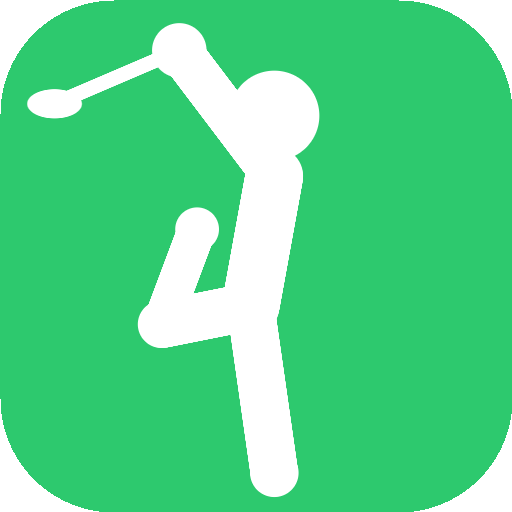
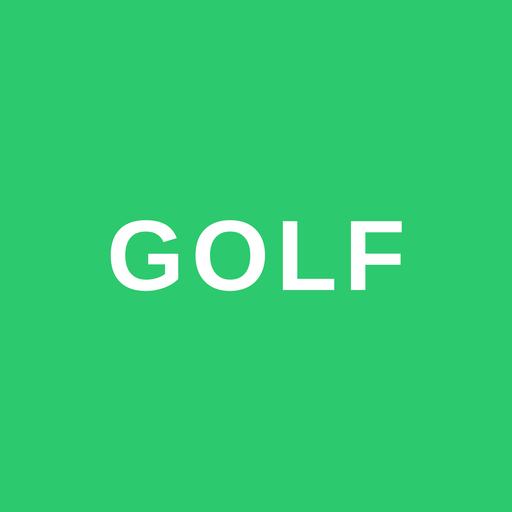
앱 아이콘을 GOLF 워드마크로 교체
초록 배경 + 흰색 굵은 GOLF 텍스트로 심플하게 변경. 실제 폰트 렌더링을
사용해 작은 파비콘 크기에서도 또렷하게 보임

Claude-Session: https://claude.ai/code/session_01WtB53jy1SqVXbNjHXjBU6c

diff --git a/service-worker.js b/service-worker.js
@@ -1,4 +1,4 @@
-const CACHE_NAME = 'haksu-golf-v24';
+const CACHE_NAME = 'haksu-golf-v25';
 const APP_SHELL = [
   './',
   './index.html',
